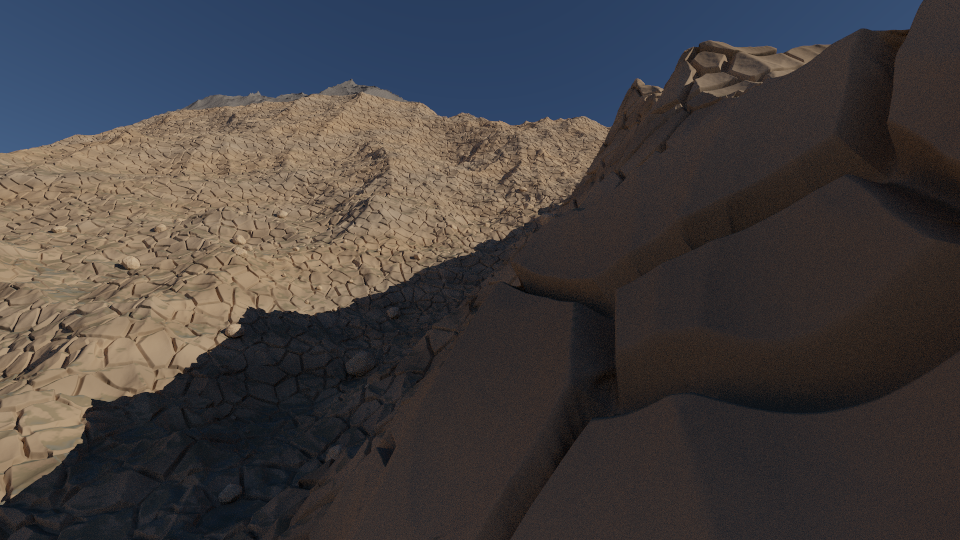
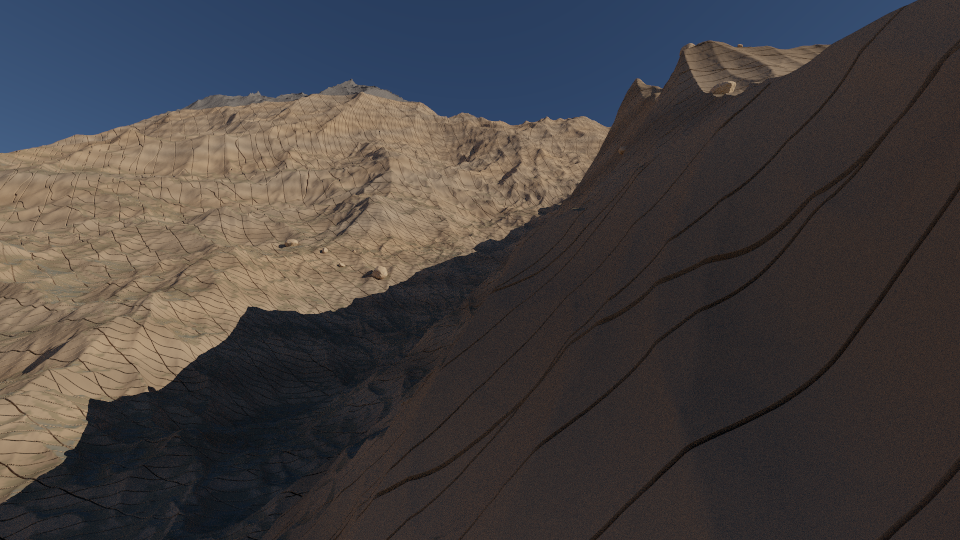
No fins on steep faces: relief's synthetic octaves stop at 12 m
The test renders showed fins and scallops on steep faces close up. They
weren't the ground's detail: the relief's own ridged noise, drawn down
to the displaced patches' centimetre cells, raised sharp ridges a metre
high a few metres apart on steep slopes, which the clipmap's coarser
mesh never showed. Below 12 m the ground's detail now takes over.

Also: sandstone's blocks between joints stand at heights of their own,
the joints opened into rounded grooves; ledges ramp over 6 m of height
at a bed's edge and stand out less; and till's boulders are the real
ones the landscape strews, not smooth domes in the ground.

Claude-Session: https://claude.ai/code/session_01U8ZZipMHPe9BLPrEta4wQp

diff --git a/src/terrain/detail.rs b/src/terrain/detail.rs
@@ -19,7 +19,8 @@
 //!   limestone fluted by solution (karren), shale finely crumbled, basalt in columns. Steeper
 //!   faces show more of it.
 //! - **Scree**, sediment on steep slopes below the cliffs: a slope of stones.
-//! - **Till and moraines**: hummocky ground scattered with boulders, unsorted.
+//! - **Till and moraines**: hummocky ground (its boulders are the landscape's own,
+//!   `object::boulders`).
 //! - **Alluvium** on gentle ground: low swales and bars, fine gravel.
 //! - **Sand**: smooth, drifted over the ground beneath (dunes are drawn larger, `scenery`).
 //! - **Playas**: flat lake beds, cracked into polygons.
@@ -128,7 +129,7 @@ pub fn local_bound(c: &Context, slope: f64, half: f64, heights: (f64, f64), nois
                 Rock::Granite => 1.2 + 1.0 * lip(Billow, 18., 0.5, 0.5),
                 Rock::Gneiss => 0.8 * lip(Ridged, 5., 0.1, 0.55),
                 Rock::Schist => 0.6 * lip(Ridged, 3., 0.05, 0.6),
-                Rock::Sandstone | Rock::Quartzite => 0.5 + 0.3 * lip(Perlin, 6., 0.1, 0.5),
+                Rock::Sandstone | Rock::Quartzite => 0.4 + 0.3 + 0.3 * lip(Perlin, 6., 0.1, 0.5),
                 Rock::Limestone => 0.5 * lip(Ridged, 1.5, 0.03, 0.6) + 0.3,
                 Rock::Shale => 0.25 * lip(Perlin, 1., 0.03, 0.6),
                 Rock::Basalt => 0.4 + 0.3,
@@ -147,7 +148,7 @@ pub fn local_bound(c: &Context, slope: f64, half: f64, heights: (f64, f64), nois
         let blown = most(k0.blown, k1.blown);
         let pan = most(k0.pan, k1.pan);
         change += loose * (scree * 0.12
-            + glacial * (1.5 * lip(Perlin, 25., 2., 0.5) + 0.9)
+            + glacial * 1.5 * lip(Perlin, 25., 2., 0.5)
             + alluvium * (0.3 * lip(Perlin, 30., 3., 0.5) + 0.04 * lip(Perlin, 0.4, 0.05, 0.6))
             + blown * 0.15 * lip(Perlin, 12., 2., 0.4)
             + pan * 0.05);
@@ -160,7 +161,6 @@ pub fn local_bound(c: &Context, slope: f64, half: f64, heights: (f64, f64), nois
 /// `noise` and `seed` vary it. Without fields (not on a landscape), nothing.
 pub fn ground(c: &Context, noise: &SeededNoise, seed: u32, amplitude: f64) -> f64 {
     let Some(f) = c.fields else { return 0. };
-    let field = |x: Field| f.field(x, &c.p).unwrap_or(0.);
     let slope = c.slope();
     let steep = |from: f64, to: f64| smoothstep(from, to, slope);
     // How much of each detail survives the filter: all of it for features four times the
@@ -186,12 +186,17 @@ pub fn ground(c: &Context, noise: &SeededNoise, seed: u32, amplitude: f64) -> f6
 
     if bare > 0. {
         let rock = f.field(Field::Rock, &c.p).map(|r| Rock::ALL[(r.round() as usize).min(Rock::ALL.len() - 1)]).unwrap_or(Rock::Sediment);
-        let hardness = field(Field::Hardness);
+        // The hardness averaged over a few metres of height, so a ledge ramps out over its
+        // bed's edge rather than stepping out of a steep face (pushed out along the face's
+        // normal by a sudden metre, the surface folds over itself in fins).
+        let up = f.vertical(&c.p).map_or(crate::na::Vector3::y(), |(up, _)| up);
+        let hardness = [-3., -1.5, 0., 1.5, 3.].iter()
+            .map(|&dz: &f64| f.field(Field::Hardness, &(c.p + up * dz)).unwrap_or(0.)).sum::<f64>() / 5.;
         // Faces show more of their rock than level ground does.
         let face = 0.4 + 0.6 * steep(20., 55.);
         // Ledges of hard beds, recesses of soft, on slopes: the rock is the one at each
         // point's height, so they follow the beds.
-        let ledges = if rock == Rock::Sediment { 0. } else { 0.7 * hardness.clamp(-1.5, 1.5) * steep(25., 50.) };
+        let ledges = if rock == Rock::Sediment { 0. } else { 0.4 * hardness.clamp(-1.5, 1.5) * steep(25., 50.) };
         let texture = match rock {
             // Rounded blocks and domes.
             // Domes, and corestones weathered out in places (tors), not everywhere.
@@ -205,7 +210,9 @@ pub fn ground(c: &Context, noise: &SeededNoise, seed: u32, amplitude: f64) -> f6
             // Blocks bounded by joints: the joints are grooves.
             Rock::Sandstone | Rock::Quartzite => {
                 let k = keep(0.5);
-                -0.5 * k * joints(c, noise, 3.) + 0.3 * fbm(FractalStyle::Perlin, 6., 0.1, 0.5)
+                let (groove, block) = joints(c, noise, 3.);
+                // Blocks between the joints stand a little proud of each other.
+                k * (-0.4 * groove + 0.3 * (block - 0.5)) + 0.3 * fbm(FractalStyle::Perlin, 6., 0.1, 0.5)
             }
             // Solution flutes and pits.
             // Solution flutes, and pans dissolved in patches.
@@ -231,9 +238,9 @@ pub fn ground(c: &Context, noise: &SeededNoise, seed: u32, amplitude: f64) -> f6
             s += scree * (0.08 * stones(CellStyle::Stones, 0.5, 0xa1) + 0.04 * stones(CellStyle::Stones, 0.2, 0xa3));
         }
         if glacial > 0. {
-            // Hummocks, and boulders in patches.
-            let boulders = smoothstep(0.1, 0.4, fbm(FractalStyle::Perlin, 40., 10., 0.5));
-            s += glacial * (1.5 * fbm(FractalStyle::Perlin, 25., 2., 0.5) + boulders * 0.9 * stones(CellStyle::Stones, 2., 0xb1));
+            // Hummocks. (Its boulders are real ones, the landscape's own, `object::boulders`:
+            // drawn in the ground they were smooth domes.)
+            s += glacial * 1.5 * fbm(FractalStyle::Perlin, 25., 2., 0.5);
         }
         if alluvium > 0. {
             s += alluvium * (0.3 * fbm(FractalStyle::Perlin, 30., 3., 0.5) + 0.04 * fbm(FractalStyle::Perlin, 0.4, 0.05, 0.6));
@@ -251,21 +258,27 @@ pub fn ground(c: &Context, noise: &SeededNoise, seed: u32, amplitude: f64) -> f6
     amplitude * ((1. - ice) * h.clamp(-REACH, REACH) + ice * glacier)
 }
 
-/// How deep in a joint `c` is, 0 to 1: two sets of nearly parallel vertical joints, at right
-/// angles to each other (as joints in bedded rock form, across the beds and each other), about
-/// `spacing` metres apart, the spacing and the joints' line wandering a little; each joint a
-/// groove a few centimetres wide where weathering has opened it.
-fn joints(c: &Context, noise: &SeededNoise, spacing: f64) -> f64 {
+/// How deep in a joint `c` is, 0 to 1, and a number from 0 to 1 for the block it is on: two
+/// sets of nearly parallel vertical joints, at right angles to each other (as joints in bedded
+/// rock form, across the beds and each other), about `spacing` metres apart, the spacing and
+/// the joints' line wandering a little; each joint a rounded groove a hand or two wide where
+/// weathering has opened it.
+fn joints(c: &Context, noise: &SeededNoise, spacing: f64) -> (f64, f64) {
     let p = c.p;
     // The sets' directions turn slowly across the country.
     let angle = 0.6 * noise.noise(p / 300. + crate::na::Vector3::new(4.1, 0.7, 2.3));
     let (a, b) = ((angle.cos(), angle.sin()), (-angle.sin(), angle.cos()));
-    let groove = |dir: (f64, f64), s: f64, o: f64| {
+    let across = |dir: (f64, f64), s: f64, o: f64| {
         let u = (p.x * dir.0 + p.z * dir.1) / s + 0.25 * noise.noise(p / (4. * s) + crate::na::Vector3::new(o, 1.3, 0.2));
         let d = (u - u.round()).abs() * s;
-        1. - smoothstep(0.02, 0.06, d)
+        (1. - smoothstep(0.03, 0.15, d), u.floor() as i64)
     };
-    groove(a, spacing, 7.7).max(groove(b, 1.6 * spacing, 3.1))
+    let ((g1, i), (g2, j)) = (across(a, spacing, 7.7), across(b, 1.6 * spacing, 3.1));
+    let mut h = (i as u64).wrapping_mul(0x9e37_79b9_7f4a_7c15) ^ (j as u64).wrapping_mul(0xc2b2_ae3d_27d4_eb4f);
+    h ^= h >> 31;
+    h = h.wrapping_mul(0xbf58_476d_1ce4_e5b9);
+    h ^= h >> 29;
+    (g1.max(g2), (h >> 11) as f64 / (1u64 << 53) as f64)
 }
 
 fn smoothstep(lo: f64, hi: f64, x: f64) -> f64 {

diff --git a/src/terrain/scenery.rs b/src/terrain/scenery.rs
@@ -319,6 +319,12 @@ pub struct Relief {
 /// same everywhere.
 const LONGEST_DETAIL: f64 = 65536.;
 
+/// ... and the shortest, metres: below it the ground's own detail (`terrain::detail`), drawn
+/// from its geology, takes over. (The ridged noise down to the displaced patches' centimetre
+/// cells raised sharp ridges a metre high a few metres apart on steep faces, which the ground's
+/// detail then stood on as fins.)
+const RELIEF_FINEST: f64 = 12.;
+
 impl Relief {
     /// `finest`: the spacing below which detail is synthetic; layers coarser than it have the
     /// planet's own relief down to it put back.
@@ -381,7 +387,7 @@ impl Relief {
         let mut sum = 0.;
         let mut wavelength = LONGEST_DETAIL;
         let mut octave = 0.;
-        while wavelength >= local {
+        while wavelength >= local.max(RELIEF_FINEST) {
             // The simulation only resolves features several cells across: below about eight
             // cells its slopes are smoothed by its own diffusion.
             let resolved = smoothstep(4. * self.finest, 8. * self.finest, wavelength);
